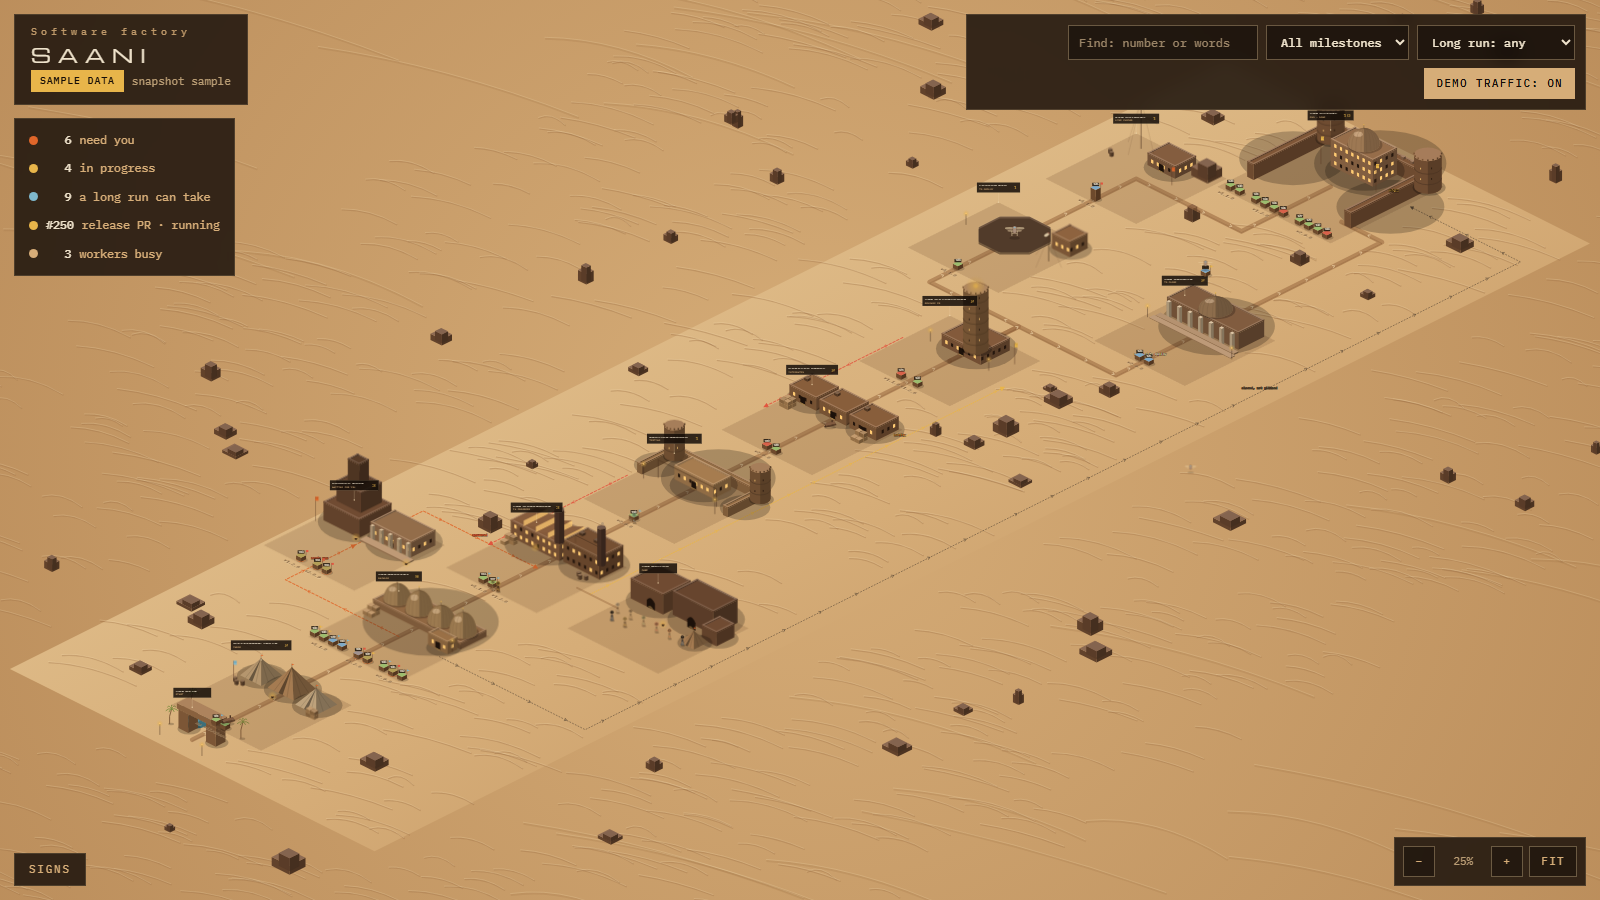
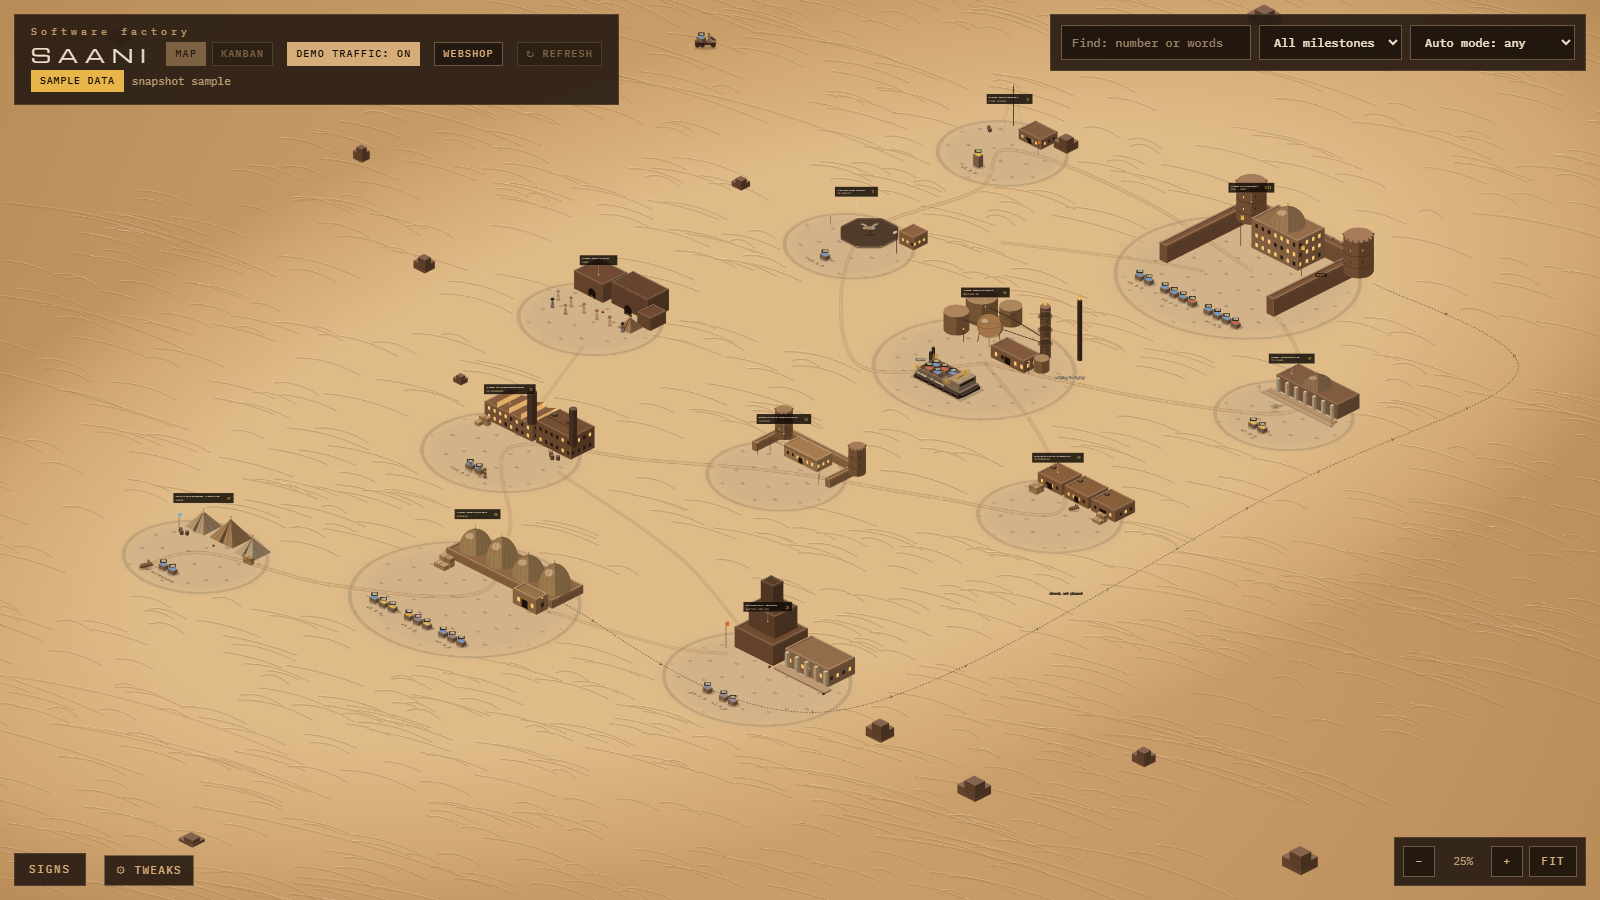
README: bring it up to Saani 0.5.0 (auto here/away, merge, deploy, guard, the map's crew) and retake the map screenshot (refs #1)
Why: the README still said v0.1, left out the two auto sub-modes, the guard, the deployer and the map's new figures, and its screenshot predated them.

Undo: git revert this commit; README.md and docs/images/map.png return to their earlier text and image.

diff --git a/README.md b/README.md
@@ -7,7 +7,7 @@ keeps going while you sleep.**
 idea to production. Each task gets its own git worktree. Work lands on your integration branch one change at a time. All test runs share
 one queue on your machine. CI fits inside GitHub's free minutes. A local map shows where every issue stands.
 
-![The Saani map: each issue is a block moving along a road through the stages of its life, from idea to deployed (synthetic sample data)](docs/images/map.png)
+![The Saani map: a desert town with a building for each stage of an issue's life, from idea to deployed; each issue is a small vehicle on the road between them, and each running subagent a figure on its issue (synthetic sample data)](docs/images/map.png)
 
 ## Why
 One Claude Code session is fast. Several at once, or one left alone for hours, run into the same problems:
@@ -19,11 +19,12 @@ One Claude Code session is fast. Several at once, or one left alone for hours, r
 | Parallel test runs slow each other down and time out | `saani test` puts every run in one queue, and each job gets the whole machine |
 | You can't tell why a commit was made or how to undo it | A commit-msg hook requires `Why:` and `Undo:` trailers on every commit |
 | GitHub Actions minutes run out mid-month | `saani ci` runs a job on GitHub while the free minutes last, and on your PC after that |
-| You have to stay at the keyboard | `/saani:auto` lets Claude work through the open issues for hours, then hand back one pull request and a report |
-| You don't know where things stand | `saani ui` opens the map: every issue, worktree, test job and Claude session on a local page |
+| You have to stay at the keyboard | `/saani:auto away` lets Claude work through the open issues for hours, two at a time, then hand back one pull request and a report; you merge and deploy it with `/saani:merge` and `/saani:deploy` |
+| You don't know where things stand | `saani ui` opens the map: every issue, worktree, test job, running subagent and Claude session on a local page |
 
 You talk to one **Claude Code** session. It plans the work, hands tasks to subagents (**workers**), checks what they return
-and reports back to you. Saani provides the commands and rules that keep this safe.
+and reports back to you. Saani provides the commands and rules that keep this safe, among them the guard: a plugin hook that lets an
+auto run work without prompts, and refuses what it must never do (push, merge, secrets, edits outside its worktrees).
 
 ## How it works
 ```mermaid
@@ -117,8 +118,11 @@ saani land            # lock → merge dev → rebuild → landing tests → pus
 ```
 Or let Claude take the whole backlog: in Claude Code, `/saani:auto away` (or `/saani:auto away 12 15` for selected issues) asks its
 questions, then starts the run itself in a headless session in the background (`claude -p ... --permission-mode auto
---permission-prompts none`), so nothing waits for an approval while you're gone. `/saani:auto here` runs it in your session instead, and
-asks you whenever it needs to.
+--permission-prompts none`), so nothing waits for an approval while you're gone; the session stays open until its coders are done. It
+keeps at most 2 issues in flight per project, lands each one itself, and ends with one dev -> main pull request and a report. Then you
+type `/saani:merge` (and `/saani:deploy`, if the project deploys). `/saani:auto here` runs the same in your session instead, and asks
+you whenever it needs to. With neither, `/saani:auto` asks which. `saani auto status` shows a run, and you end it from a terminal with
+`saani auto off --run <id>`.
 
 ## Commands
 Each command has two forms. In a **terminal**, run it from your project's folder (with the alias from step 1, or as `python -I path/to/saani.py`).
@@ -126,7 +130,7 @@ In **Claude Code**, type the slash command, or ask in your own words.
 
 | Terminal | Claude Code | What it does |
 |---|---|---|
-| `saani ui [--open]` | `/saani:ui` | opens the map at `http://127.0.0.1:8771` (the kanban page is at `/kanban`) (this machine only, read-only). `saani map` and `saani board` work as aliases |
+| `saani ui [--open]` | `/saani:ui` | opens the map at `http://127.0.0.1:8771` (the kanban page is at `/kanban`) (this machine only, read-only): one figure per running subagent, the release pull request as a harvester (click it to open the PR), and a "Stale" badge when Saani does not answer. `saani map` and `saani board` work as aliases |
 | `saani projects [list\|add [FOLDER]\|remove OWNER/NAME]` | `/saani:projects` | the projects the map's selector offers (`~/.saani/projects.toml`); one map shows them all |
 | `saani status` | `/saani:status` | landing lock, worktrees, conflicts per landing, test queue |
 | `saani start <n> [--hotfix]` | `/saani:start 42` | worktree and branch for issue `n` from the integration branch (a hotfix starts from the prod tag) |
@@ -144,22 +148,23 @@ In **Claude Code**, type the slash command, or ask in your own words.
 | `saani check-msg <file>` | (none) | the commit-msg hook: git runs it, not you |
 | `saani guard` | (none) | the plugin's Claude Code hook: Claude Code runs it before each tool call, not you |
 
-Claude never runs `/saani:start`, `/saani:land`, `/saani:merge` or `/saani:prune` on its own, because they change your repo: you type them, or ask for them.
+Claude never runs `/saani:start`, `/saani:land`, `/saani:merge`, `/saani:deploy` or `/saani:prune` on its own, because they change your repo: you type them, or ask for them.
 In an auto run (`/saani:auto`), Claude lands each issue itself, because you started the run for that.
 
 ## The plugin
 | Part | Status |
 |---|---|
 | `/saani:<command>`: a slash command for every `saani` command (see [Commands](#commands)) | available |
-| `/saani:auto`: an unattended run over the open issues, ending in one pull request and a report | available |
-| Worker subagents `saani:coder`, `saani:tester`, `saani:reviewer`, `saani:scribe`, `saani:researcher` (`agents/`), each on a model that fits the job; the pipeline from an issue to dev is in [docs/PLUGIN.md](docs/PLUGIN.md) | available, not yet tried in an auto run |
+| `/saani:auto here` and `/saani:auto away`: a run over the open issues, in your session or in a headless one that waits for its coders, ending in one pull request and a report | available |
+| Worker subagents `saani:coder`, `saani:tester`, `saani:reviewer`, `saani:scribe`, `saani:researcher`, `saani:deployer` (`agents/`), each on a model that fits the job; the pipeline from an issue to dev is in [docs/PLUGIN.md](docs/PLUGIN.md) | available; the coder and reviewer work the auto runs |
 | Claude Code hooks: the guard, which runs an auto run without prompts and refuses what it must never do (push, merge, secrets, edits outside the worktrees); [docs/SAANI.md](docs/SAANI.md#the-guard) | available |
 
 Details: [docs/PLUGIN.md](docs/PLUGIN.md).
 
 ## Status
-Early (v0.1 in progress). The command, its config file and the map work, and Saani is developed with itself: this repo has its own
-[saani.toml](saani.toml) and every change goes through `saani start` and `saani land`. The roadmap is in the issues (epic #1).
+Early (v0.5.0: `saani --version` prints it). The command, its config file, the map, the auto runs, `saani merge` and `saani deploy` work,
+and Saani is developed with itself: this repo has its own [saani.toml](saani.toml) and every change goes through `saani start` and
+`saani land`. The roadmap is in the issues (epic #1).
 
 ## Contributing
 Issues and pull requests are welcome. Run the tests with `python -m pytest -q`. Standard library only. Commits carry `refs #n`, `Why:` and
